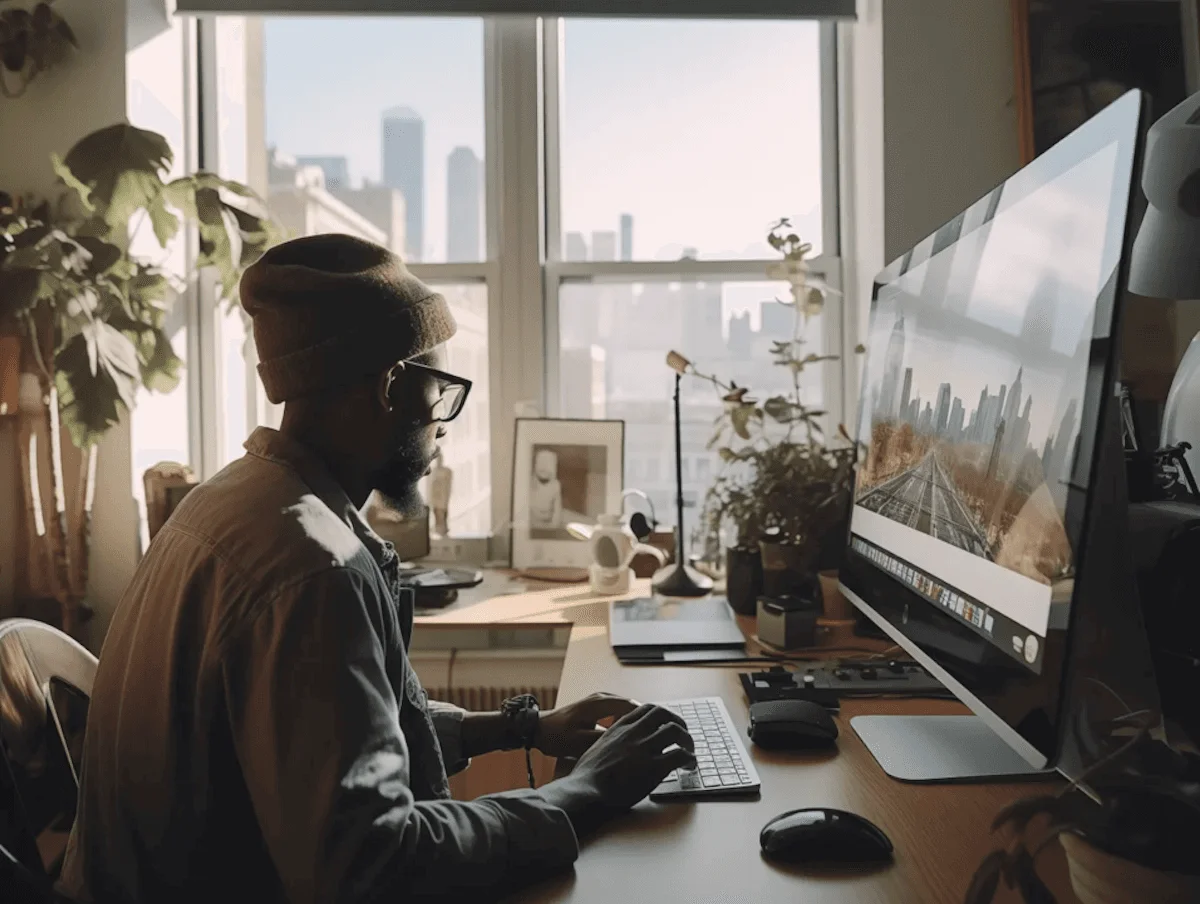
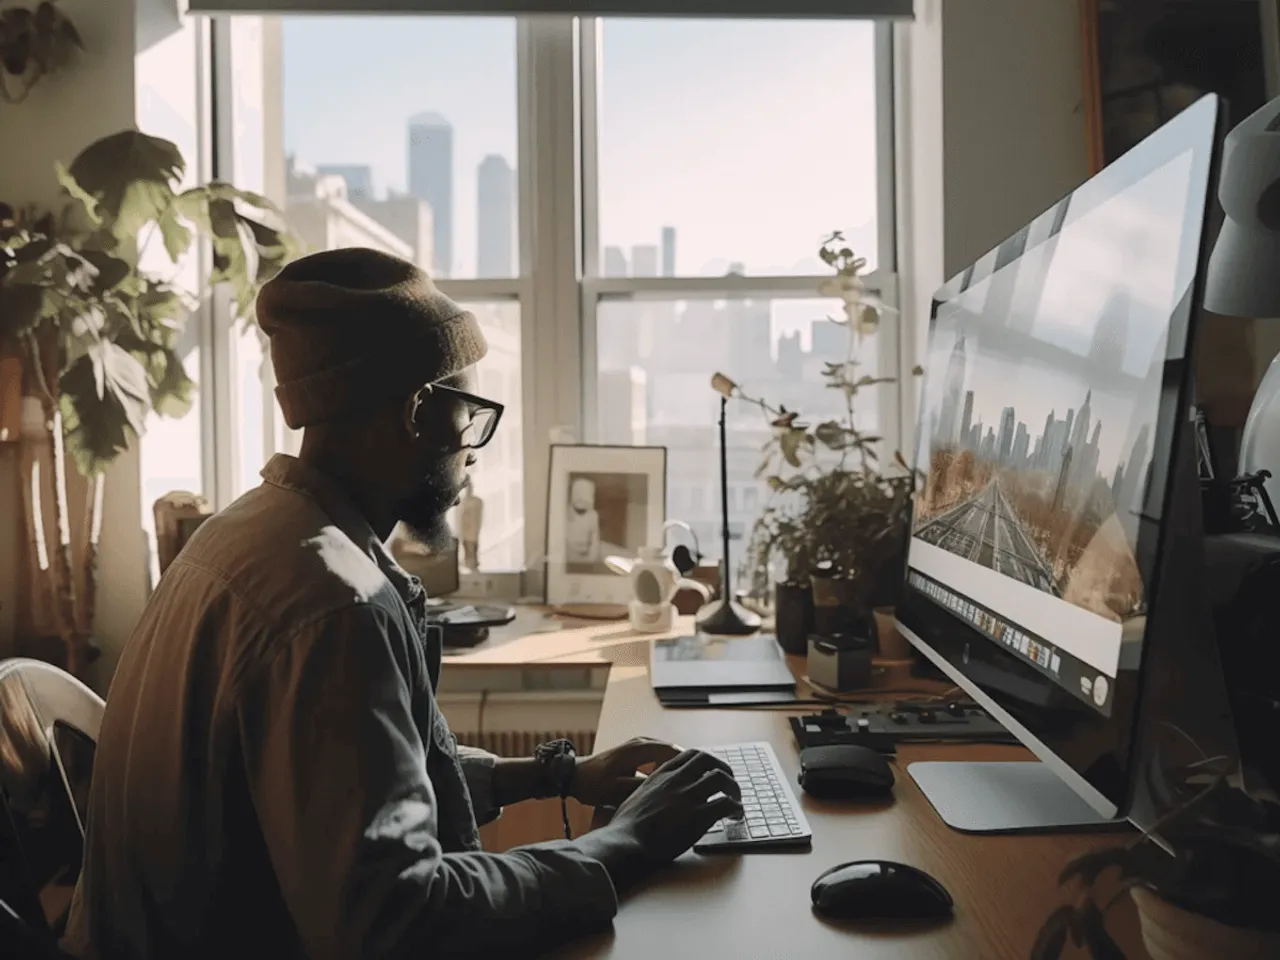
perf(core-vitals): replace WebGL shader with GPU-accelerated CSS liquid metal to fix 30s TBT and lock aspect ratios to fix CLS

diff --git a/components/ui/LiquidMetalButton.tsx b/components/ui/LiquidMetalButton.tsx
@@ -2,11 +2,11 @@
 
 import React, { memo, forwardRef } from "react";
 import Link from "next/link";
-import { LiquidMetal as LiquidMetalShader } from "@paper-design/shaders-react";
 import { cn } from "@/lib/utils";
 
 // ============================================================================
-// LiquidMetal - Base shader wrapper component
+// LiquidMetal - Ultra High-Performance GPU-Accelerated Chrome Liquid Metal
+// (Pure CSS compositor animation, 0ms main-thread CPU blocking, 0 WebGL overhead)
 // ============================================================================
 
 export interface LiquidMetalProps {
@@ -29,50 +29,23 @@ export interface LiquidMetalProps {
 }
 
 export const LiquidMetal = memo(function LiquidMetal({
-    colorBack = "#aaaaac",
-    colorTint = "#ffffff",
-    speed = 0.5,
-    repetition = 4,
-    distortion = 0.1,
-    scale = 1,
+    colorBack = "#0A0F08",
+    colorTint = "#86F00A",
     className,
     style,
 }: LiquidMetalProps) {
-    const [mounted, setMounted] = React.useState(false);
-
-    React.useEffect(() => {
-        // Mount WebGL shader after initial paint to prevent FCP/LCP CPU stalls
-        const id = setTimeout(() => {
-            setMounted(true);
-        }, 120);
-        return () => clearTimeout(id);
-    }, []);
-
     return (
         <div
-            className={cn("absolute inset-0 z-0 overflow-hidden", className)}
-            style={{
-                background: "linear-gradient(135deg, #0A0F08 0%, #172611 50%, #86F00A 100%)",
-                ...style,
-            }}
+            className={cn("absolute inset-0 z-0 overflow-hidden pointer-events-none rounded-full", className)}
+            style={style}
         >
-            {mounted && (
-                <LiquidMetalShader
-                    colorBack={colorBack}
-                    colorTint={colorTint}
-                    speed={speed}
-                    repetition={repetition}
-                    distortion={distortion}
-                    softness={0}
-                    shiftRed={0.3}
-                    shiftBlue={-0.3}
-                    angle={45}
-                    shape="none"
-                    scale={scale}
-                    fit="cover"
-                    style={{ width: "100%", height: "100%" }}
-                />
-            )}
+            <div
+                className="w-full h-full rounded-full animate-liquid-metal"
+                style={{
+                    background: `linear-gradient(115deg, ${colorBack} 0%, #14280d 20%, ${colorTint} 40%, #ffffff 50%, ${colorTint} 60%, #14280d 80%, ${colorBack} 100%)`,
+                    backgroundSize: "260% 260%",
+                }}
+            />
         </div>
     );
 });
@@ -135,7 +108,7 @@ export const LiquidMetalButton = forwardRef<
                 className="relative rounded-full overflow-hidden shadow-[0_12px_36px_-10px_rgba(10,15,8,0.25)]"
                 style={{ padding: borderWidth }}
             >
-                {/* Liquid Metal Border Layer */}
+                {/* Liquid Metal Border Layer (GPU-Accelerated) */}
                 <LiquidMetal
                     colorBack={metalConfig?.colorBack ?? "#0A0F08"}
                     colorTint={metalConfig?.colorTint ?? "#86F00A"}
@@ -149,30 +122,24 @@ export const LiquidMetalButton = forwardRef<
                 {/* Inner Button Body */}
                 <div
                     className={cn(
-                        "relative z-10 rounded-full flex items-center select-none",
-                        "bg-[#0A0F08] text-white",
-                        "transition-all duration-200",
-                        "group-hover:bg-[#162012]",
+                        "relative z-10 flex items-center rounded-full bg-[#0A0F08] text-white tracking-wide transition-all duration-300",
+                        "hover:bg-[#111a0e] active:scale-[0.98]",
                         sizeStyles[size]
                     )}
                 >
+                    {/* Icon container with electric lime glow */}
                     {icon && (
                         <div
                             className={cn(
-                                "rounded-full flex items-center justify-center shrink-0",
-                                "bg-[#162012] text-[var(--lime)]",
-                                "shadow-[inset_0_2px_4px_rgba(0,0,0,0.4)]",
+                                "flex items-center justify-center rounded-full bg-gradient-to-br from-[#86F00A]/30 to-[#86F00A]/10 border border-[#86F00A]/40 shadow-[0_0_12px_rgba(134,240,10,0.3)] shrink-0",
                                 iconSizes[size]
                             )}
                         >
-                            <span className="flex items-center justify-center">
-                                {icon}
-                            </span>
+                            {icon}
                         </div>
                     )}
-                    <span className="tracking-tight text-white group-hover:text-[var(--lime)] transition-colors">
-                        {children}
-                    </span>
+
+                    <span className="truncate">{children}</span>
                 </div>
             </div>
         );
@@ -182,7 +149,8 @@ export const LiquidMetalButton = forwardRef<
                 <Link
                     href={href}
                     className={cn(
-                        "relative group inline-block cursor-pointer border-none bg-transparent p-0 outline-none transition-transform hover:-translate-y-0.5 active:scale-[0.98]",
+                        "inline-block rounded-full transition-transform hover:-translate-y-0.5 active:translate-y-0 outline-none focus-visible:ring-2 focus-visible:ring-[#86F00A] focus-visible:ring-offset-2 focus-visible:ring-offset-[#0A0F08]",
+                        disabled && "pointer-events-none opacity-50",
                         className
                     )}
                     onClick={onClick as any}
@@ -195,10 +163,12 @@ export const LiquidMetalButton = forwardRef<
         return (
             <button
                 ref={ref}
+                type="button"
                 disabled={disabled}
                 onClick={onClick}
                 className={cn(
-                    "relative group cursor-pointer border-none bg-transparent p-0 outline-none transition-transform hover:-translate-y-0.5 active:scale-[0.98] disabled:opacity-50 disabled:cursor-not-allowed disabled:pointer-events-none",
+                    "inline-block rounded-full transition-transform hover:-translate-y-0.5 active:translate-y-0 outline-none focus-visible:ring-2 focus-visible:ring-[#86F00A] focus-visible:ring-offset-2 focus-visible:ring-offset-[#0A0F08]",
+                    disabled && "cursor-not-allowed opacity-50",
                     className
                 )}
                 {...props}

diff --git a/components/Hero.tsx b/components/Hero.tsx
@@ -76,15 +76,15 @@ export const Hero: React.FC = () => {
             {/* Main Headline with Animated Rotating Words - Immediately visible on SSR */}
             <h1 className="text-[2.1rem] sm:text-4xl md:text-5xl lg:text-[3.35rem] xl:text-[3.85rem] font-bold tracking-tight text-[var(--fg)] leading-[1.14] mb-5 sm:mb-6">
               Elevate Your Brand With a High-Performing{' '}
-              <span className="inline-block relative">
+              <span className="inline-flex items-center justify-center relative min-w-[130px] sm:min-w-[175px] align-middle">
                 <AnimatePresence mode="wait">
                   <motion.span
                     key={ROTATING_WORDS[wordIndex]}
-                    initial={{ opacity: 0, y: 14 }}
+                    initial={{ opacity: 0, y: 12 }}
                     animate={{ opacity: 1, y: 0 }}
-                    exit={{ opacity: 0, y: -14 }}
+                    exit={{ opacity: 0, y: -12 }}
                     transition={{ duration: 0.35, ease: [0.16, 1, 0.3, 1] }}
-                    className="inline-block bg-[var(--lime)]/20 text-[#1f3c03] px-2.5 py-0.5 rounded-lg border border-[var(--lime)]/40 shadow-xs"
+                    className="inline-block bg-[var(--lime)]/20 text-[#1f3c03] px-2.5 py-0.5 rounded-lg border border-[var(--lime)]/40 shadow-xs text-center w-full"
                   >
                     {ROTATING_WORDS[wordIndex]}
                   </motion.span>
@@ -118,18 +118,21 @@ export const Hero: React.FC = () => {
           {/* Right Column: Hero Photo Card */}
           <div className="lg:col-span-6 relative mt-4 lg:mt-0">
             <div className="relative">
-              {/* Main Photo Frame - Clean photo card */}
-              <div className="relative z-10 rounded-2xl sm:rounded-[28px] overflow-hidden border border-[var(--line)] shadow-xl bg-white">
-                <img
-                  src="/images/hero/hero-developer.webp"
-                  alt="Amos Jonathan (Joe) building high-performance Next.js websites and web applications at AJÉBUILDS"
-                  width={640}
-                  height={520}
-                  className="w-full h-auto object-cover max-h-[520px] aspect-[4/3] sm:aspect-[1.12/1]"
-                  loading="eager"
-                  fetchPriority="high"
-                  decoding="async"
-                />
+              {/* Main Photo Frame - Locked Aspect Ratio to completely prevent Layout Shift */}
+              <div className="relative z-10 rounded-2xl sm:rounded-[28px] overflow-hidden border border-[var(--line)] shadow-xl bg-white aspect-[4/3] sm:aspect-[1.12/1] w-full">
+                <picture className="w-full h-full block">
+                  <source media="(max-width: 640px)" srcSet="/images/hero/hero-developer-mobile.webp" type="image/webp" />
+                  <img
+                    src="/images/hero/hero-developer.webp"
+                    alt="Amos Jonathan (Joe) building high-performance Next.js websites and web applications at AJÉBUILDS"
+                    width={640}
+                    height={480}
+                    className="w-full h-full object-cover"
+                    loading="eager"
+                    fetchPriority="high"
+                    decoding="async"
+                  />
+                </picture>
               </div>
 
               {/* Bottom Feature Badges Bar - Brand colors, NO ORANGE */}

diff --git a/components/SelectedWork.tsx b/components/SelectedWork.tsx
@@ -390,6 +390,9 @@ const MasonryCard: React.FC<MasonryCardProps> = ({ item, onOpenModal }) => {
               muted
               playsInline
               preload="none"
+              width={600}
+              height={375}
+              style={{ aspectRatio: '16/10' }}
               className="w-full h-auto block object-cover group-hover:scale-[1.02] transition-transform duration-500"
             />
             {/* Continuous Video Live Indicator (Pexels style) */}
@@ -405,6 +408,10 @@ const MasonryCard: React.FC<MasonryCardProps> = ({ item, onOpenModal }) => {
             src={item.src}
             alt={`${item.title} — ${item.subtitle}`}
             loading="lazy"
+            decoding="async"
+            width={600}
+            height={375}
+            style={{ aspectRatio: '16/10' }}
             className="w-full h-auto block object-cover group-hover:scale-[1.02] transition-transform duration-500"
           />
         )}

diff --git a/app/globals.css b/app/globals.css
@@ -228,3 +228,21 @@ body {
   mask-image: linear-gradient(90deg, transparent, black 12%, black 88%, transparent);
   -webkit-mask-image: linear-gradient(90deg, transparent, black 12%, black 88%, transparent);
 }
+
+/* GPU-Accelerated Liquid Metal Chrome Shimmer (0ms CPU, 0ms TBT) */
+@keyframes liquidMetalShimmer {
+  0% {
+    background-position: 0% 50%;
+  }
+  50% {
+    background-position: 100% 50%;
+  }
+  100% {
+    background-position: 0% 50%;
+  }
+}
+
+.animate-liquid-metal {
+  animation: liquidMetalShimmer 4s ease-in-out infinite;
+  will-change: background-position;
+}

diff --git a/app/layout.tsx b/app/layout.tsx
@@ -281,6 +281,8 @@ export default function RootLayout({
           rel="preload"
           as="image"
           href="/images/hero/hero-developer.webp"
+          imageSrcSet="/images/hero/hero-developer-mobile.webp 640w, /images/hero/hero-developer.webp 1280w"
+          imageSizes="(max-width: 640px) 100vw, 640px"
           type="image/webp"
           fetchPriority="high"
         />
